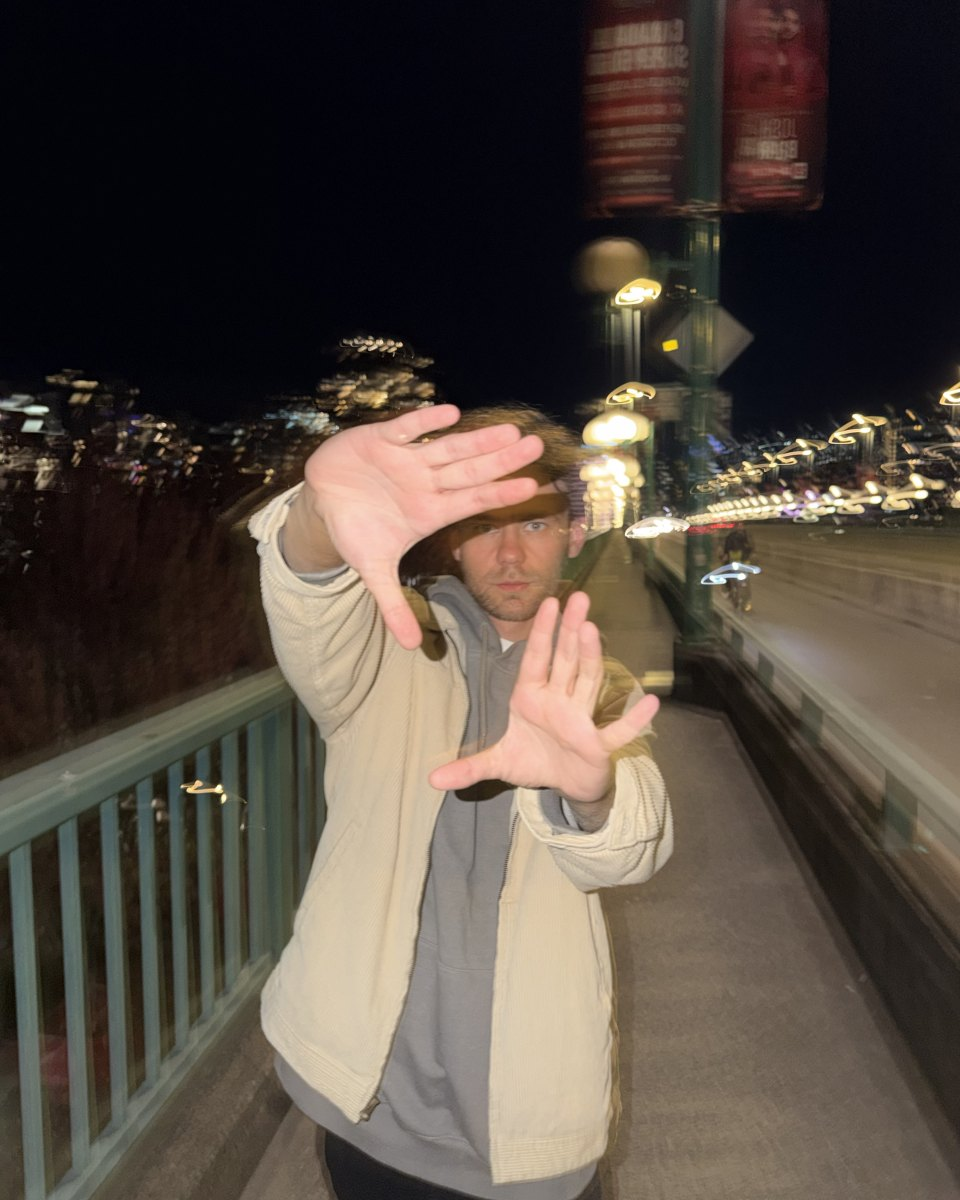
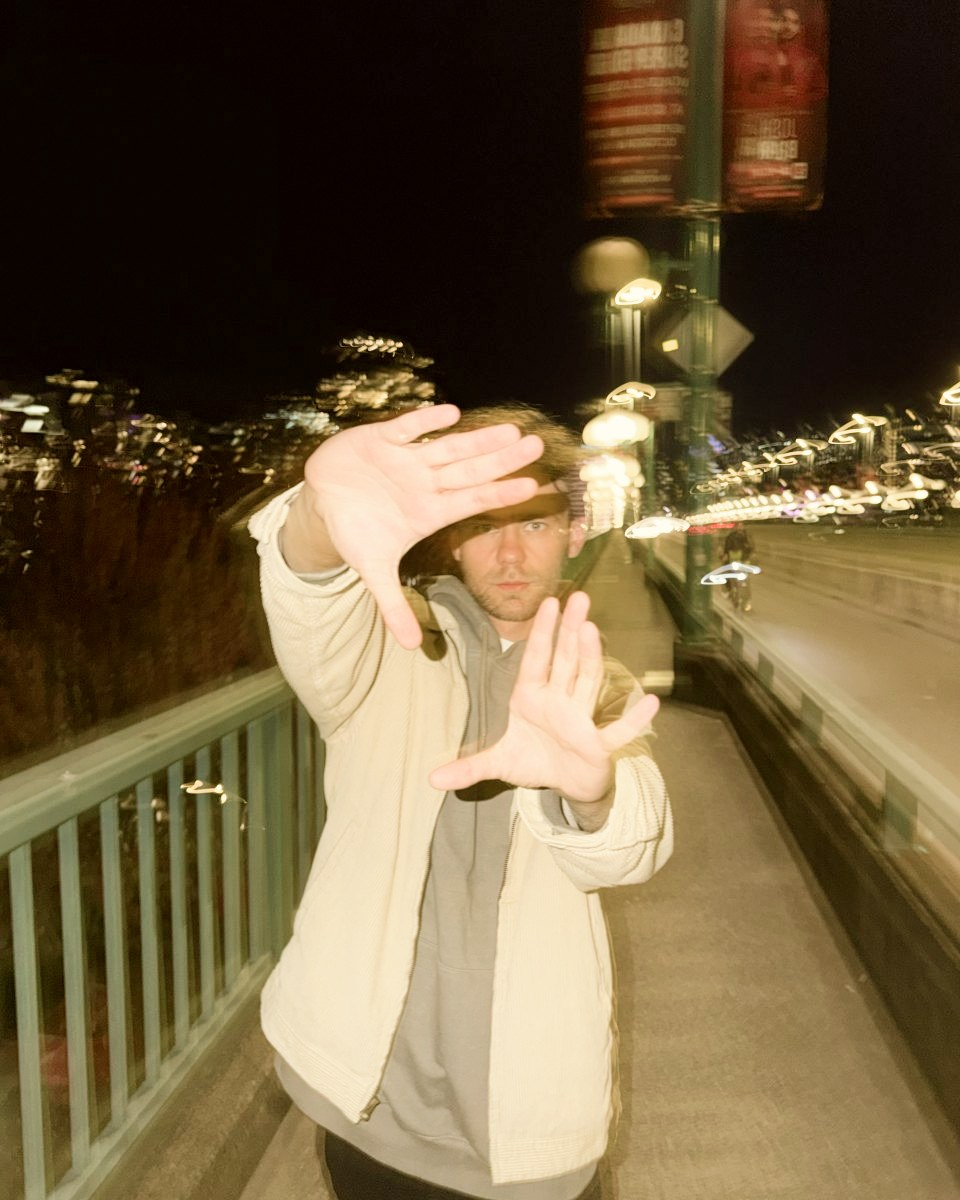
Hero collage matches Figma: photo positions, bridge colour grade baked in, soft frost on the glass, corner slivers removed

diff --git a/src/components/GlassRefraction.jsx b/src/components/GlassRefraction.jsx
@@ -8,6 +8,10 @@ import { useEffect, useRef } from 'react';
  *
  * Figma params: patternType 0 (lenticular), amount 100, seamlessness 0, frost 0,
  * iorDispersion 4, centerHandle { x: 50, y: 50, radius: 11.47, angle: 49.1 }, pixelWrapMode 0.
+ *
+ * On top of it Figma has its built-in Glass effect (frost radius 4). Measured against a Figma
+ * render, that adds a ~0.94 px soft blur; the rest of it is invisible here, so it is a CSS blur.
+ * The thin stripe cells cut off by the top-left / bottom-right corners are faded out.
  */
 
 const VERT = `#version 300 es
@@ -50,6 +54,15 @@ vec4 sampleZero(vec2 px) {
   if (uv.x < 0.0 || uv.x > 1.0 || uv.y < 0.0 || uv.y > 1.0) return vec4(0.0);
   return texture(uTex, uv);
 }
+// Position along the stripe axis, in cells.
+float stripePos(vec2 p, mat2 rot, float invSize) { return (rot * (p - uCenter)).x * invSize; }
+// 0 inside a thin stripe sliver cut off by a corner, 1 elsewhere.
+float cornerKeep(float q, float a, float b) {
+  float cell = floor(a);
+  if (q < cell - 0.025 || q > cell + 1.025) return 1.0; // a hair wider, so the cut edge's seam goes too
+  float inside = b > a ? (cell + 1.0 - a) : (a - cell); // how much of that stripe lies inside the glass
+  return smoothstep(0.2, 0.4, inside);
+}
 void main() {
   vec2 localPos = vec2(gl_FragCoord.x, uDims.y * uScale - gl_FragCoord.y) / uScale;
   float c = cos(uAngle), s = sin(uAngle);
@@ -76,12 +89,16 @@ void main() {
     }
   }
   vec4 col = acc / (n * n);
-  outColor = vec4(col.rgb, col.a);
+  float q = stripePos(localPos, rot, invSize);
+  float tl = stripePos(vec2(0.0), rot, invSize);
+  float br = stripePos(uDims, rot, invSize);
+  float keep = cornerKeep(q, tl, br) * cornerKeep(q, br, tl);
+  outColor = vec4(col.rgb, col.a * keep);
 }`;
 
 const PARAMS = { amount: 100, seamlessness: 0, iorDispersion: 4, radius: 11.473249435424805, angle: 49.10326385498047 };
 
-export default function GlassRefraction({ width, height, paintBackdrop, pointer, className = '' }) {
+export default function GlassRefraction({ width, height, paintBackdrop, pointer, blurScale = 1, className = '' }) {
   const canvasRef = useRef(null);
   const glRef = useRef(null);
   const pointerRef = useRef(pointer);
@@ -185,5 +202,6 @@ export default function GlassRefraction({ width, height, paintBackdrop, pointer,
     return () => clearTimeout(t);
   }, [pointer]);
 
-  return <canvas ref={canvasRef} className={`glass-refraction ${className}`.trim()} aria-hidden="true" />;
+  // Soft frost from Figma's Glass effect, scaled with the collage.
+  return <canvas ref={canvasRef} className={`glass-refraction ${className}`.trim()} style={{ filter: `blur(${(0.94 * blurScale).toFixed(2)}px)` }} aria-hidden="true" />;
 }

diff --git a/src/sections/Hero.jsx b/src/sections/Hero.jsx
@@ -12,9 +12,10 @@ import { NAV, go } from '../nav.js';
 import Arrow from '../components/Arrow.jsx';
 
 // Collage geometry in Figma units (box 628 × 604, from x 732 / y 420 of the 1440 frame).
-const BOX = { w: 628, h: 604 };
-const BRIDGE = { x: 326, y: 0, w: 302, h: 437 };
-const ROCK = { x: 0, y: 227, w: 302, h: 377, crop: { x: 0.0993, y: 0.1985, w: 0.8017, h: 0.8007 } };
+// Positions match the current Figma hero (bridge 1058/380, rock 768/595, glass 910/445).
+const BOX = { w: 592, h: 592 };
+const BRIDGE = { x: 290, y: 0, w: 302, h: 437 };
+const ROCK = { x: 0, y: 215, w: 302, h: 377, crop: { x: 0.0993, y: 0.1985, w: 0.8017, h: 0.8007 } };
 const GLASS = { x: 142, y: 65, w: 335, h: 451 };
 const pct = (v, of) => `${(v / of) * 100}%`;
 
@@ -126,7 +127,7 @@ function Collage() {
           ariaLabel="Glass"
           front={
             <div className="glass">
-              <GlassRefraction width={GLASS.w} height={GLASS.h} paintBackdrop={paintBehindGlass} pointer={pointer} />
+              <GlassRefraction width={GLASS.w} height={GLASS.h} paintBackdrop={paintBehindGlass} pointer={pointer} blurScale={k} />
             </div>
           }
         />

diff --git a/src/styles.css b/src/styles.css
@@ -179,13 +179,13 @@ button { font: inherit; color: inherit; background: none; border: 0; padding: 0;
   align-items: flex-start;
 }
 
-/* Collage: 628 × 604 box, bottom-right of the hero */
+/* Collage: 592 × 592 box (Figma), bottom-right of the hero */
 .collage {
   position: absolute;
   right: var(--gutter);
   bottom: 0;
-  width: min(628px, 43.6vw, calc((100svh - 330px) * 1.04));
-  aspect-ratio: 628 / 604;
+  width: min(592px, 41.1vw, calc(100svh - 330px));
+  aspect-ratio: 1;
   z-index: 1;
 }
 .collage__photo { position: absolute; display: block; object-fit: cover; }
